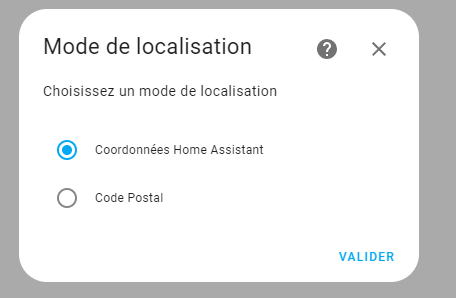
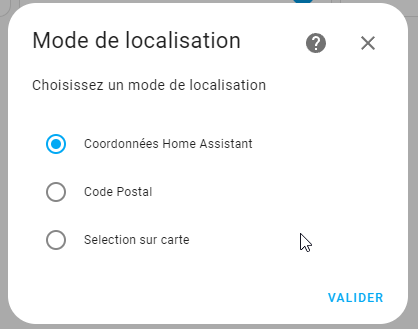
✨ Allow location selection on a mini-map

diff --git a/custom_components/vigieau/config_flow.py b/custom_components/vigieau/config_flow.py
@@ -16,6 +16,14 @@ from .const import (
     CONF_CODE_POSTAL,
     CONF_CITY,
 )
+from homeassistant.helpers.selector import LocationSelector
+from homeassistant import config_entries
+from homeassistant.const import (
+    CONF_LATITUDE,
+    CONF_LONGITUDE
+)
+from .api import InseeApi, AddressApi
+from .const import (DOMAIN, CONF_LOCATION_MODE, LOCATION_MODES, HA_COORD, ZIP_CODE, CONF_INSEE_CODE, CONF_CODE_POSTAL, CONF_CITY, SELECT_COORD, CONF_LOCATION_MAP)
 
 _LOGGER = logging.getLogger(__name__)
 
@@ -43,21 +51,21 @@ async def get_insee_code_fromzip(hass: HomeAssistant, data: dict) -> None:
     except ValueError as exc:
         raise exc
 
-
-async def get_insee_code_fromcoord(hass: HomeAssistant) -> Tuple[str, str]:
+async def get_insee_code_fromcoord(hass: HomeAssistant, lat=None, lon=None) -> Tuple[str, str, float, float]:
     """Get Insee code from GPS coords"""
     session = async_get_clientsession(hass)
     try:
         client = AddressApi(session)
-        lon = hass.config.as_dict()["longitude"]
-        lat = hass.config.as_dict()["latitude"]
+        if lat is None or lon is None:
+            lon = hass.config.as_dict()["longitude"]
+            lat = hass.config.as_dict()["latitude"]
         return await client.get_data(lat, lon)
     except ValueError as exc:
         raise exc
 
 
 def _build_place_key(city) -> str:
-    return f"{city['code']};{city['nom']}"
+    return f"{city['code']};{city['nom']};{city['centre']['coordinates'][0]};{city['centre']['coordinates'][1]}"
 
 
 class SetupConfigFlow(config_entries.ConfigFlow, domain=DOMAIN):
@@ -94,12 +102,36 @@ class SetupConfigFlow(config_entries.ConfigFlow, domain=DOMAIN):
                 if not errors:
                     self.data[CONF_INSEE_CODE] = city_infos[0]
                     self.data[CONF_CITY] = city_infos[1]
-                    return await self.async_step_location(user_input=self.data)
-            elif user_input[CONF_LOCATION_MODE] == ZIP_CODE:
-                self.data = user_input
+                    self.data[CONF_LATITUDE] = city_infos [2]
+                    self.data[CONF_LONGITUDE] = city_infos [3]
+                    return await self.async_step_location(user_input= self.data)
+            elif user_input[CONF_LOCATION_MODE]== ZIP_CODE:
+                self.data=user_input
                 return await self.async_step_location()
+            elif user_input[CONF_LOCATION_MODE]== SELECT_COORD:
+                return await self.async_step_map_select()
 
-        return self._show_setup_form("user", user_input, LOCATION_SCHEMA, errors)
+        return self._show_setup_form("user",user_input,LOCATION_SCHEMA, errors)
+    async def async_step_map_select(self, user_input=None):
+        COORD_SCHEMA = vol.Schema({vol.Required(CONF_LOCATION_MAP, default={
+                                    CONF_LATITUDE: self.hass.config.latitude,
+                                    CONF_LONGITUDE: self.hass.config.longitude
+                                 }): LocationSelector()})
+        errors = {}
+        _LOGGER.debug("in async_map_select !!")
+        if user_input is not None:
+            try:
+                city_infos= await get_insee_code_fromcoord(self.hass,user_input[CONF_LOCATION_MAP][CONF_LATITUDE], user_input[CONF_LOCATION_MAP][CONF_LONGITUDE])
+            except ValueError:
+                    errors["base"] = "noinsee"
+            if not errors:
+                self.data[CONF_INSEE_CODE] = city_infos[0]
+                self.data[CONF_CITY] = city_infos[1]
+                self.data[CONF_LATITUDE] = city_infos [2]
+                self.data[CONF_LONGITUDE] = city_infos [3]
+                return await self.async_step_location(user_input= self.data)
+        return self._show_setup_form("map_select", None, COORD_SCHEMA, errors)
+
 
     async def async_step_location(self, user_input=None):
         """Handle location step"""
@@ -148,4 +180,6 @@ class SetupConfigFlow(config_entries.ConfigFlow, domain=DOMAIN):
         city_infos = user_input[CONF_CITY].split(";")
         self.data[CONF_INSEE_CODE] = city_infos[0]
         self.data[CONF_CITY] = city_infos[1]
+        self.data[CONF_LONGITUDE] = city_infos [2]
+        self.data[CONF_LATITUDE] = city_infos [3]
         return await self.async_step_location(self.data)

diff --git a/custom_components/vigieau/__init__.py b/custom_components/vigieau/__init__.py
@@ -39,6 +39,11 @@ from .const import (
     VigieEauSensorEntityDescription,
 )
 from .config_flow import get_insee_code_fromcoord
+from homeassistant.const import (
+    CONF_LATITUDE,
+    CONF_LONGITUDE
+)
+
 
 _LOGGER = logging.getLogger(__name__)
 
@@ -47,7 +52,7 @@ async def async_migrate_entry(hass, config_entry: ConfigEntry):
     if config_entry.version == 1:
         _LOGGER.warn("config entry version is 1, migrating to version 2")
         new = {**config_entry.data}
-        insee_code, city_name = await get_insee_code_fromcoord(hass)
+        insee_code, city_name, lat, lon = await get_insee_code_fromcoord(hass)
         new[CONF_INSEE_CODE] = insee_code
         new[CONF_CITY] = city_name
         new[CONF_LOCATION_MODE] = HA_COORD
@@ -138,6 +143,7 @@ class VigieauAPICoordinator(DataUpdateCoordinator):
 
             # TODO(kamaradclimber): there 4 supported profils: particulier, entreprise, collectivite and exploitation
             url = f"{BASE_URL}/reglementation?commune={city_code}&profil=particulier"
+            # url = f"{BASE_URL}/reglementation?lat={self.lat}&lon={self.lon}&commune={city_code}&profil=particulier"
             _LOGGER.debug(f"Requesting restrictions from {url}")
             r = await self._async_client.get(url)
             if (
@@ -263,9 +269,7 @@ class UsageRestrictionEntity(CoordinatorEntity, SensorEntity):
         self._attr_state_attributes = None
         self._attr_entity_category = EntityCategory.DIAGNOSTIC
         self._config = description
-        self._attr_unique_id = (
-            f"sensor-vigieau-{self._attr_name}-{config_entry.data.get(CONF_INSEE_CODE)}"
-        )
+        self._attr_unique_id=f"sensor-vigieau-{self._attr_name}-{config_entry.data.get(CONF_INSEE_CODE)}-{config_entry.data.get(CONF_LATITUDE)}-{config_entry.data.get(CONF_LONGITUDE)}"
         self._attr_device_info = DeviceInfo(
             name=f"{NAME} {config_entry.data.get(CONF_CITY)}",
             entry_type=DeviceEntryType.SERVICE,

diff --git a/custom_components/vigieau/api.py b/custom_components/vigieau/api.py
@@ -26,7 +26,7 @@ class InseeApi:
 
     async def get_data(self, zipcode) -> dict:
         """Get INSEE code for a given zip code"""
-        url = f"{GEOAPI_GOUV_URL}codePostal={zipcode}&fields=s=code&format=json&geometry=centre"
+        url = f"{GEOAPI_GOUV_URL}codePostal={zipcode}&fields=code,centre&format=json&geometry=centre"
 
         resp = await self._session.get(url)
         if resp.status != 200:
@@ -54,7 +54,7 @@ class AddressApi:
         self._timeout = timeout
         self._session = session or aiohttp.ClientSession()
 
-    async def get_data(self, lat, lon) -> Tuple[str, str]:
+    async def get_data(self, lat: float, lon: float) -> Tuple[str, str, float, float]:
         url = f"{ADDRESS_API_URL}/reverse/?lat={lat}&lon={lon}&type=housenumber"
         resp = await self._session.get(url)
         if resp.status != 200:
@@ -73,4 +73,4 @@ class AddressApi:
                 "Impossible to find approximate address of the current HA instance. API returned no result."
             )
         properties = data["features"][0]["properties"]
-        return (properties["citycode"], properties["city"])
+        return (properties["citycode"], properties["city"], lat, lon)

diff --git a/custom_components/vigieau/const.py b/custom_components/vigieau/const.py
@@ -11,11 +11,13 @@ ADDRESS_API_URL = "https://api-adresse.data.gouv.fr"
 CONF_LOCATION_MODE = "location_mode"
 HA_COORD = 0
 ZIP_CODE = 1
-LOCATION_MODES = {HA_COORD: "Coordonnées Home Assistant", ZIP_CODE: "Code Postal"}
+SELECT_COORD=2
+LOCATION_MODES = {HA_COORD: "Coordonnées Home Assistant", ZIP_CODE: "Code Postal", SELECT_COORD: "Sélection sur carte"}
 CONF_INSEE_CODE = "INSEE"
 CONF_CITY = "city"
 CONF_CODE_POSTAL = "Code postal"
-NAME = "Vigieau"
+CONF_LOCATION_MAP = "location_map"
+NAME= "Vigieau"
 
 
 @dataclass

diff --git a/README.md b/README.md
@@ -14,22 +14,23 @@ It must be used as a custom repository via hacs.
 
 Once the custom integration has been added, add "vigieau" integration through the UI.
 
-You can choose the location either by using HA coordinates (default) or a specific town using its INSEE code
+You can choose the location either by using HA coordinates (default), giving a specific town zip code or select a point in a map.
 
 ![image info](/img/vigieau_location.png)
 
 HA coordinates are the one defined during initial setup and accessible using `System>General>Edit location`)
 
-Once a location is added a new one can be added using city Zip/Postal code.
+Once a first location is added a new one can be added (using city zip code or a pin on a map)
 
-
+### Using Zip Code
 ![image info](/img/location.png)
 
 Localisation is based on INSEE Code, not ZIP/Postal code. If several INSEE code correspond to provided Zip code, manual selection will be required..
 
 ![image info](/img/multiloc.png)
 
-
+### Selecting a point on map
+![image info](/img/vigieau_map.png)
 
 ## Known issues and workaround
 
